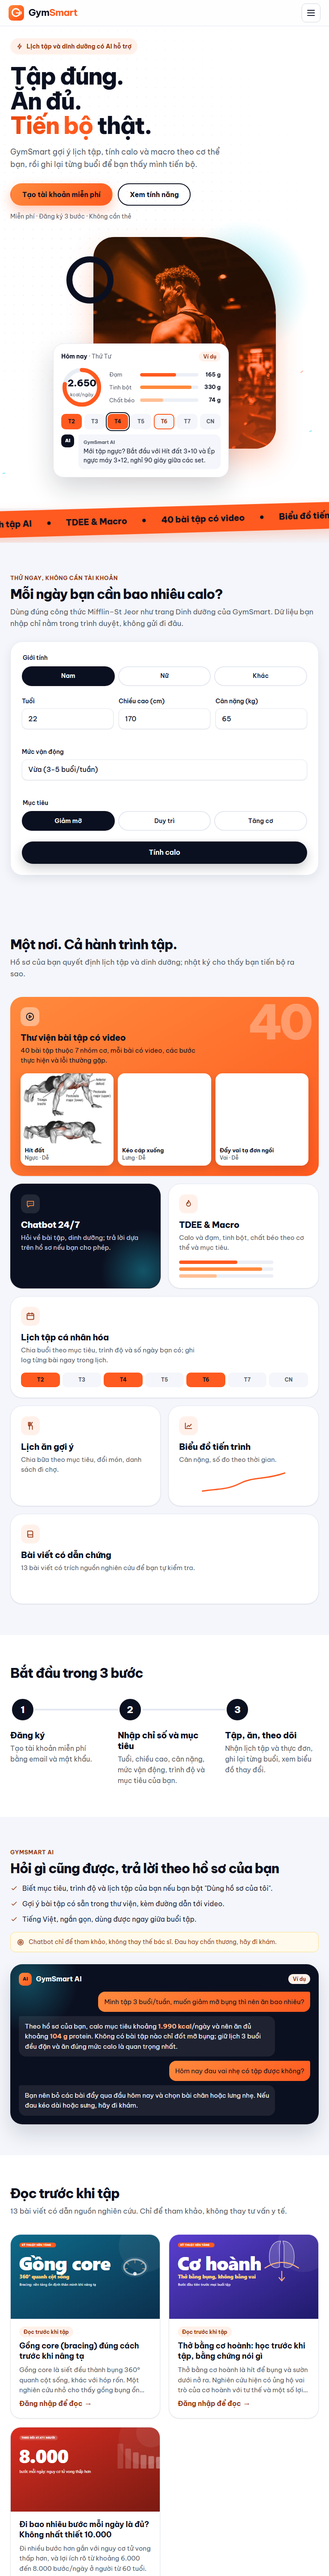
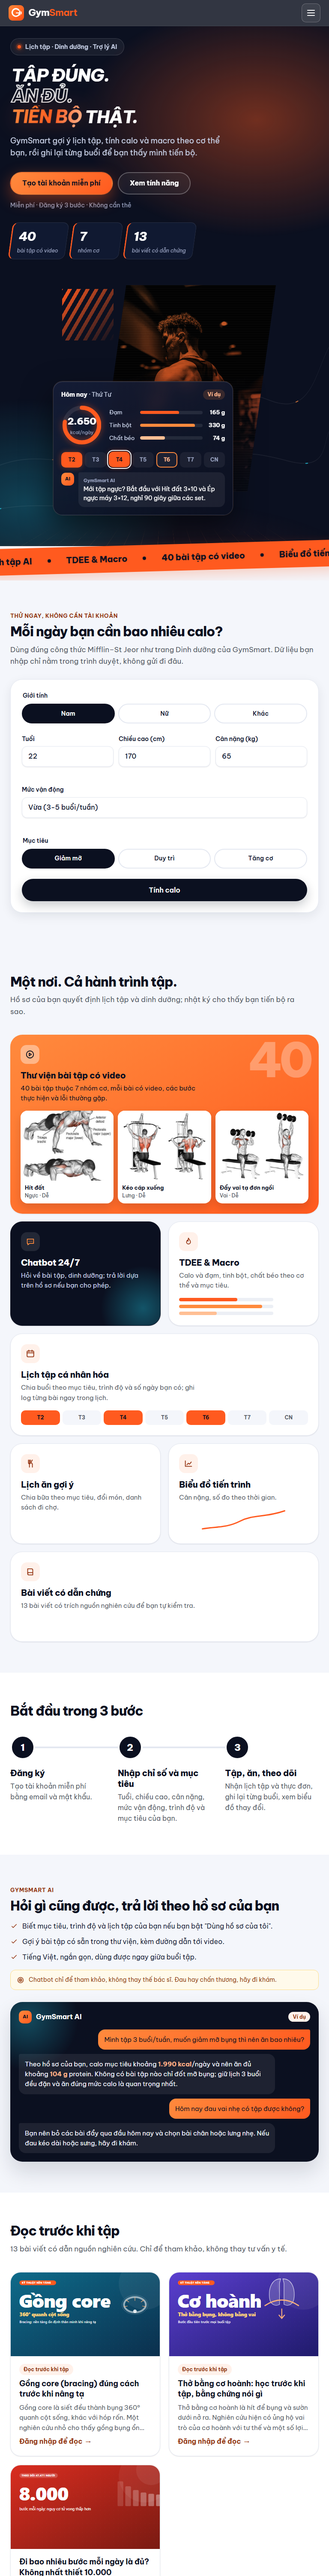
Ảnh sau khi đổi hero sang Future sport, cập nhật UI_UX_PROMPT và TASKS

diff --git a/TASKS.md b/TASKS.md
@@ -44,7 +44,7 @@ Quy ước dùng chung:
 - [x] A-15 Giao diện Hồ sơ mới + ảnh đại diện đổi được (`profile.php`, `css/profile.css`, `js/profile.js`, `sql/users_avatar.sql`; ảnh lưu ở `public/uploads/avatars/`, JPG/PNG/WebP tối đa 2 MB, vẽ lại thành JPG)
 - [x] A-16 Đăng ký 3 bước (tài khoản, cơ thể, mục tiêu): thu đủ tuổi, giới tính, chiều cao, cân nặng, vận động, trình độ, mục tiêu ngay lúc đăng ký (`register.php`, `css/register.css`, `js/register.js`)
 - [x] A-23 Nâng cấp trang chủ khi chưa đăng nhập (`includes/home-guest.php`, `css/home-guest.css`, `js/home-guest.js`, ảnh hero trong `assets/img/hero/`, nguồn ảnh ở `assets/img/CREDITS.md`): hero ảnh gym và lớp công nghệ, thẻ "Ví dụ", 7 tính năng, 3 bước, xem trước bài tập từ DB, mục kiến thức. Giao diện khi đã đăng nhập không đổi
-- [x] A-38 Làm lại trang chủ khách theo hướng "Fresh energetic" (`a-37-landing-tre-trung`, mockup và ảnh trước/sau trong `docs/mockups/`, `docs/screens/landing-*`): hero sáng với tiêu đề lớn, một bảng điều khiển mô phỏng (vòng calo đếm lên, thanh macro, AI gõ chữ, dải 7 ngày, nghiêng 3D theo chuột), dải từ khóa, công cụ tính calo Mifflin–St Jeor chạy trong trình duyệt (khớp `tdee.php`), lưới bento, 3 bước có đường nối theo cuộn, chatbot mẫu, bài viết thật, nút dính đáy trên điện thoại. Token `--glow-cool` chỉ cho trang khách
+- [x] A-38 Làm lại trang chủ khách theo hướng "Fresh energetic" (`a-37-landing-tre-trung`, mockup và ảnh trước/sau trong `docs/mockups/`, `docs/screens/landing-*`): hero sáng với tiêu đề lớn, một bảng điều khiển mô phỏng (vòng calo đếm lên, thanh macro, AI gõ chữ, dải 7 ngày, nghiêng 3D theo chuột), dải từ khóa, công cụ tính calo Mifflin–St Jeor chạy trong trình duyệt (khớp `tdee.php`), lưới bento, 3 bước có đường nối theo cuộn, chatbot mẫu, bài viết thật, nút dính đáy trên điện thoại. Token `--glow-cool` chỉ cho trang khách. Sau đó đổi hero sang hướng "Future sport" (hero tối công nghệ + thể thao, tiêu đề nghiêng, dải số liệu thật, ảnh cắt bình hành, bảng điều khiển kính tối); các khối dưới giữ nền sáng
 - [x] A-24 Bảng điều khiển sau đăng nhập ở trang chủ (`includes/dashboard.php`, `includes/home-user.php`, `includes/dash-*.php`, `css/home-user.css`, `js/home-user.js`, test `test-dashboard.php`): hôm nay, tuần này, dinh dưỡng, tiến trình, lối tắt, ghi nhanh. Thêm bảng `article_reads` (`sql/article_reads.sql`, đã gộp vào `schema.sql` và `ERD.md`). DB cũ cần import file này
 - [x] A-25 Sửa chatbot (`css/chatbot.css`, `js/chatbot.js`, `includes/chatbot-widget.php`, `includes/ai.php`, `api/chatbot.php`): khung bị mờ và bị thẻ trang đè khi đang chờ (trùng class `.is-busy` của `ui.css`), giao diện tối nền đặc, nút Dừng và Thử lại, markdown an toàn, không hiện lỗi kỹ thuật, chuyển sang model dự phòng khi model chính treo (mỗi lần gọi tối đa 15 giây, tổng 40 giây)
 - [x] A-26 Nâng cấp Dinh dưỡng (`nutrition.php`, `includes/meal-plan.php`, `includes/tdee.php`, `includes/nutrition-db.php`, `test-nutrition.php`): đổi món từng bữa, loại trừ thực phẩm, lịch 7 ngày không lặp món liên tiếp, danh sách đi chợ, nhịp mục tiêu, calo theo ngày tập/nghỉ, tiến độ cân nặng so với kế hoạch. Lựa chọn lưu ở bảng `nutrition_preferences` (`sql/nutrition_preferences.sql`, đã gộp vào `schema.sql`). Nhóm C cần đọc hiểu phần mới của `tdee.php`

diff --git a/docs/UI_UX_PROMPT.md b/docs/UI_UX_PROMPT.md
@@ -122,8 +122,9 @@ Quy tắc màu:
 
 ## 7. Quy định theo trang
 
-- **Trang chủ khách (hướng "Fresh energetic", 11/2026):**
-  - Hero nền sáng: tiêu đề cực lớn có một từ tô gradient (`--accent-dark` → `--accent`, đạt 3:1 cho chữ lớn), bên phải là khối cam bo góc chứa ảnh gym (nguồn ghi trong `public/assets/img/CREDITS.md`) và **một** bảng điều khiển mô phỏng có nhãn "Ví dụ".
+- **Trang chủ khách (hướng "Future sport", 11/2026):**
+  - Hero nền tối `--ink` (ngoại lệ duy nhất): lưới sàn phối cảnh, quầng sáng cam và `--glow-cool`, tiêu đề viết hoa nghiêng từng dòng (dòng giữa chỉ có viền, có dự phòng chữ đặc), dải số liệu THẬT (số bài tập, nhóm cơ, bài viết có dẫn chứng). Bên phải: ảnh gym cắt hình bình hành nhuộm cam/đen có vạch quét (nguồn ghi trong `public/assets/img/CREDITS.md`) và **một** bảng điều khiển kính tối có nhãn "Ví dụ".
+  - Không dùng ảnh người nổi tiếng/influencer: vừa vướng bản quyền, vừa khiến người xem hiểu nhầm là họ quảng cáo cho GymSmart.
   - Nút cam dùng chữ `--ink` (chữ trắng trên `#ff5a1f` chỉ đạt 3,12:1).
   - Bên dưới: dải từ khóa chạy ngang, công cụ tính calo (tính trong trình duyệt), lưới bento, 3 bước, chatbot mẫu, bài viết thật, kêu gọi cuối trang nền cam; mọi khối nền sáng.
   - Chuyển động chỉ chạy khi nhìn thấy và tab đang mở; tắt hết khi `prefers-reduced-motion`.
